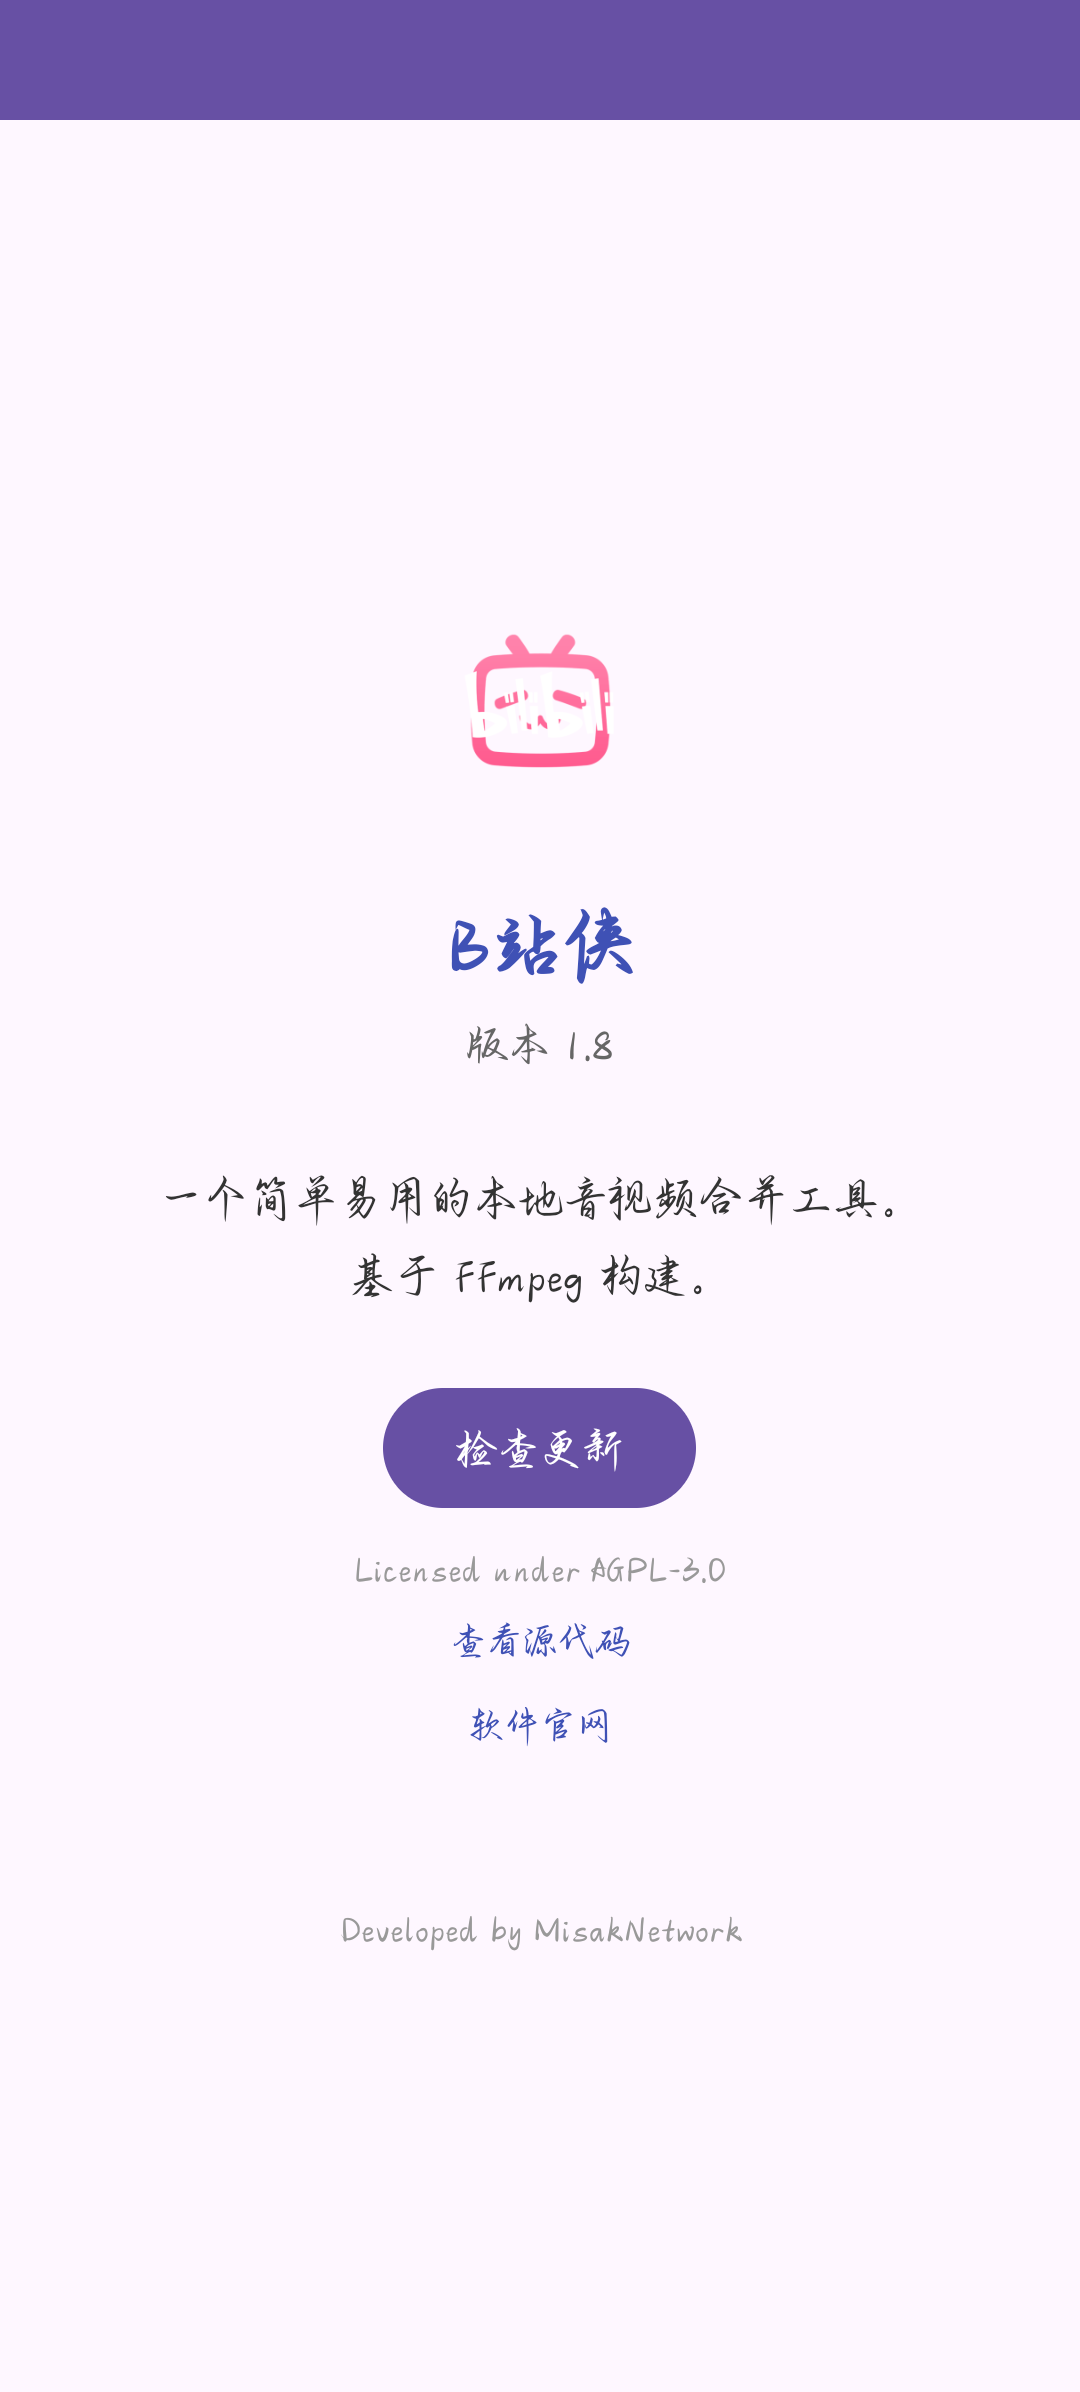
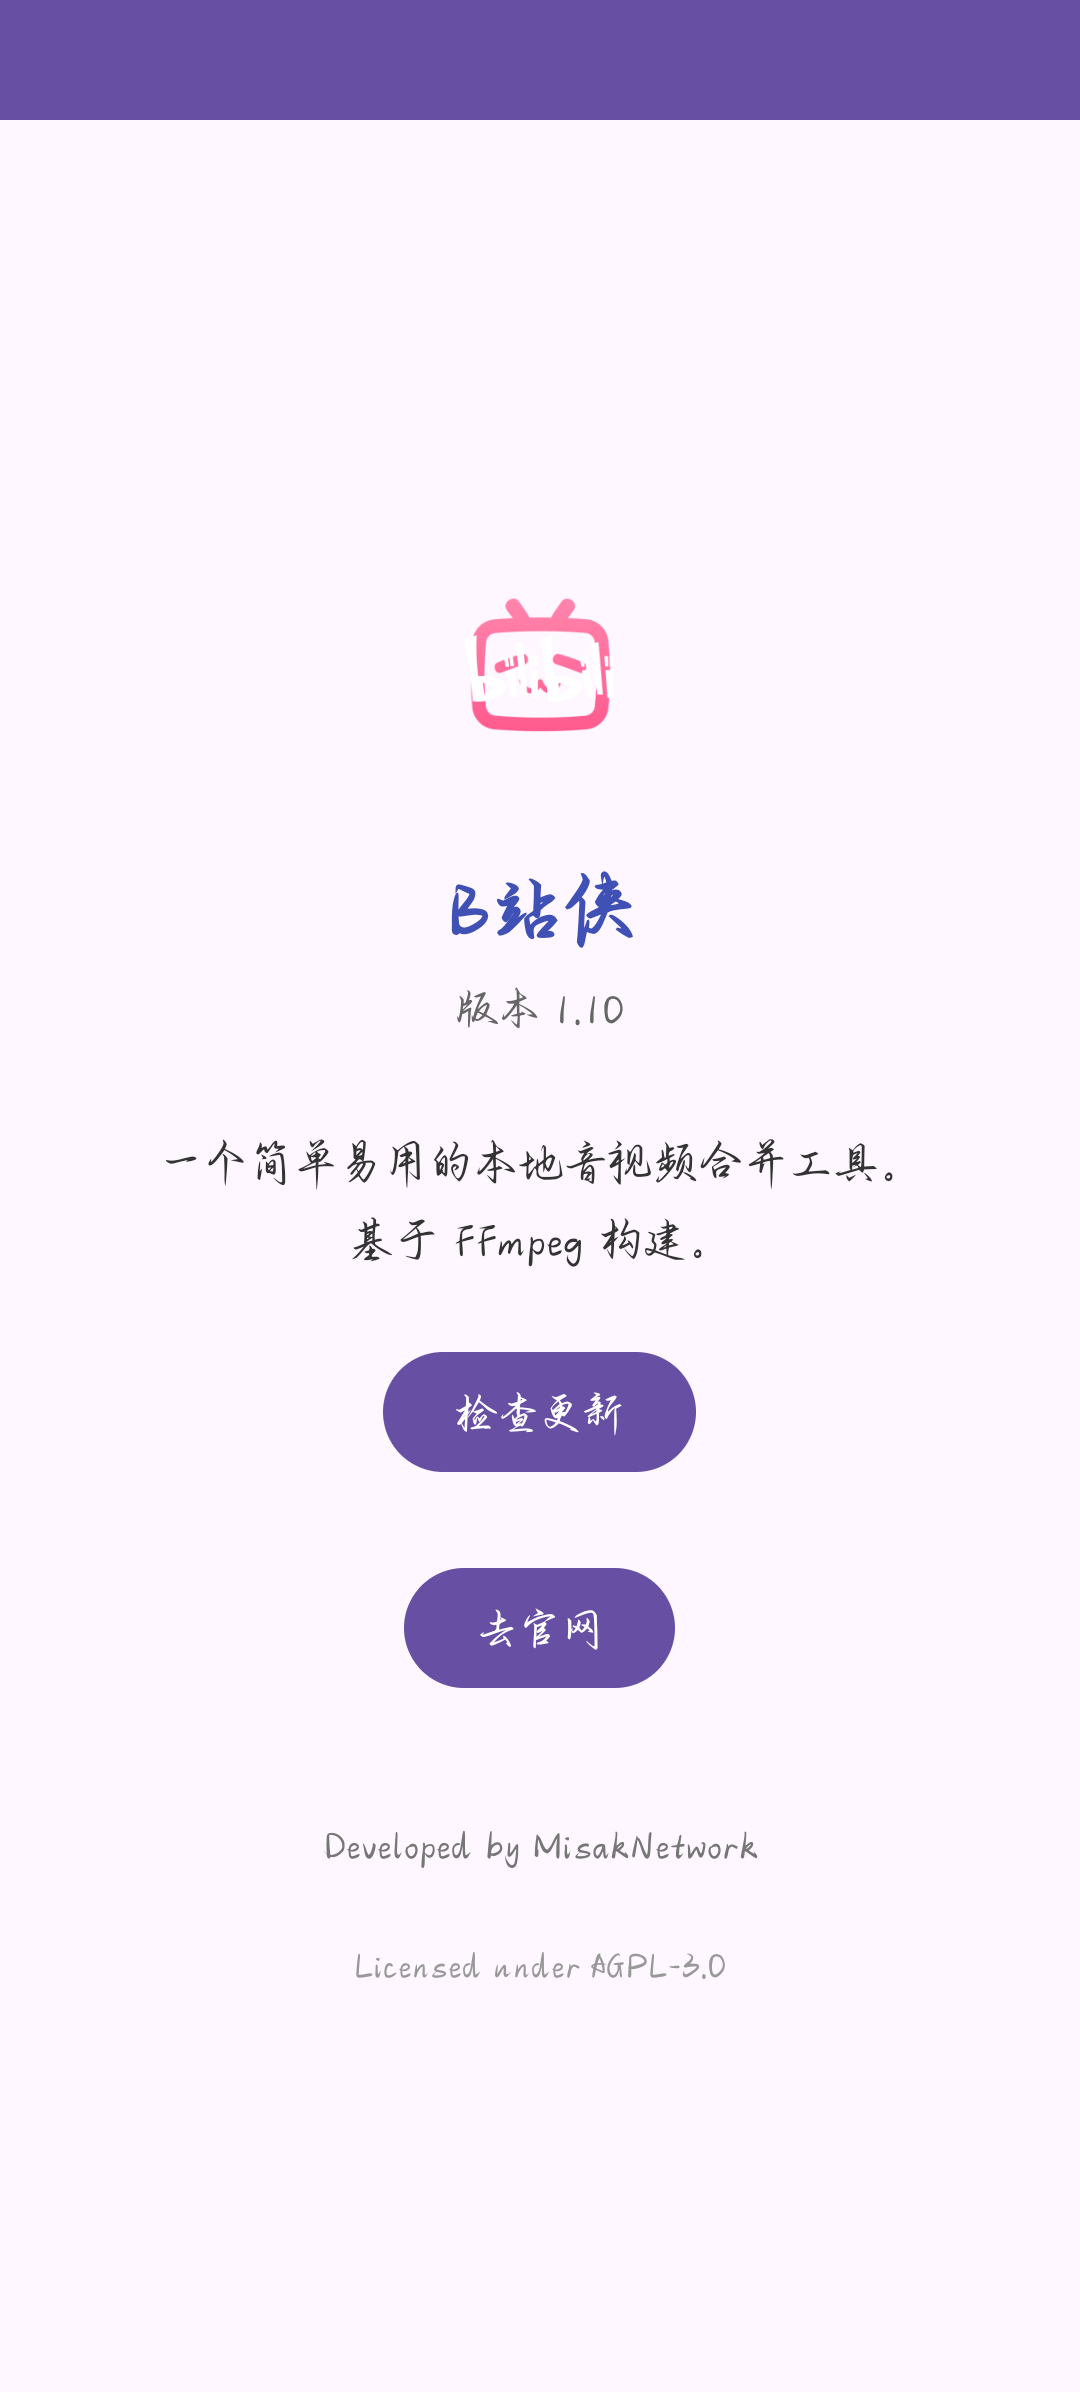
更改网页H5版本号及链接

diff --git a/docs/en.html b/docs/en.html
@@ -303,11 +303,11 @@
       <a href="https://github.com/MikotoNetwork/BiliXia/releases/latest" class="btn btn-primary">
         ⬇ Download Latest
       </a>
-      <a href="https://github.com/MikotoNetwork/BiliXia/" class="btn btn-secondary">
+      <a href="https://github.com/MikotoNetwork/BiliXia" class="btn btn-secondary">
         📦 View Source
       </a>
     </div>
-    <span class="version-tag">v1.8.0 · Android 7.0+</span>
+    <span class="version-tag">v1.10.1 · Android 7.0+</span>
   </header>
 
   <section>

diff --git a/docs/index.html b/docs/index.html
@@ -275,11 +275,11 @@
       <a href="https://github.com/MikotoNetwork/BiliXia/releases/latest" class="btn btn-primary">
         ⬇ 下载最新版
       </a>
-      <a href="https://github.com/misaknetwork/BiliXia" class="btn btn-secondary">
+      <a href="https://github.com/MikotoNetwork/BiliXia/" class="btn btn-secondary">
         📦 查看源码
       </a>
     </div>
-    <span class="version-tag">v1.8.0 · Android 7.0+</span>
+    <span class="version-tag">v1.10.1 · Android 7.0+</span>
   </header>
 
   <section>
